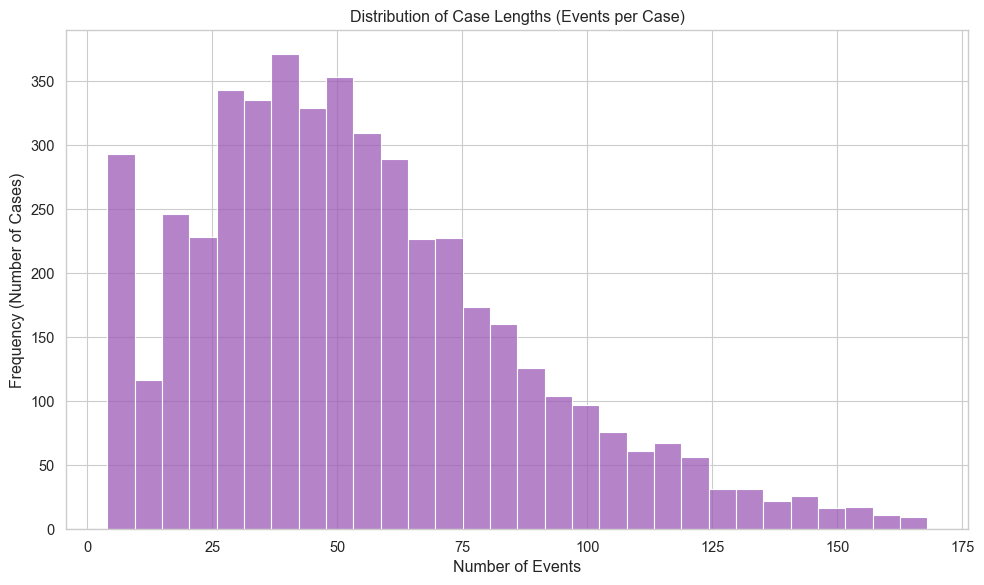
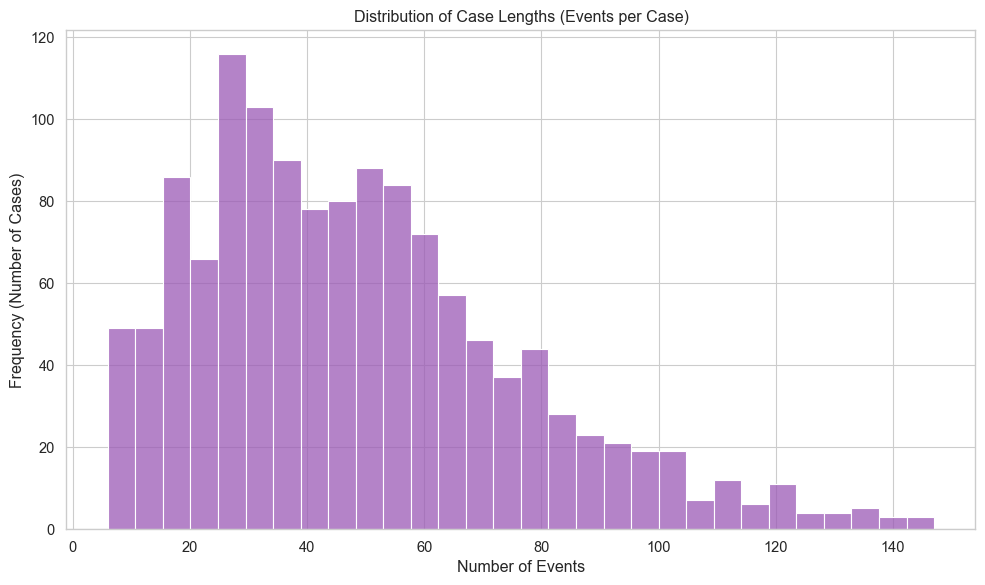
Fix data leakage in target calculation and target encoding
- Filter target variable calculation to only include officially closed ('Extinct'/'Canceled') cases to eliminate right-censoring bias.
- Remove 'claim_amount' from categorical features to prevent target encoding leakage on continuous variables.

diff --git a/src/feature_engineering/transformers.py b/src/feature_engineering/transformers.py
@@ -1,12 +1,11 @@
 import pandas as pd
-import numpy as np
 from src import config
 
 
 def add_temporal_features(df):
     """
     Adds time-based features: Weekday, Month, Elapsed Time.
-    Calculates the target variable: remaining_time_days.
+    Calculates the target variable: remaining_time_days (ONLY FOR CLOSED CASES).
     """
     df = df.copy()
     print("  - Adding Temporal Features...")
@@ -22,17 +21,24 @@ def add_temporal_features(df):
     df['Month'] = df[config.COL_DATE].dt.month
 
     # 2. Duration features
-    # Calculate start date for every case
     df['case_start'] = df.groupby(config.COL_CASE_ID)[config.COL_DATE].transform('min')
-
-    # Elapsed: How long has the case been running so far?
     df['elapsed_time_days'] = (df[config.COL_DATE] - df['case_start']).dt.total_seconds().div(86400)
-
-    # Time since last event: Gap between steps
     df['time_since_last_event'] = df.groupby(config.COL_CASE_ID)[config.COL_DATE].diff().dt.total_seconds().div(
         86400).fillna(0)
 
+    print("  - IMPORTANT: Filtering for officially closed cases ('Extinct' or 'Canceled')...")
+
+    # Search for the translations 'Extinct' or 'Canceled' in the status column
+    closed_mask = df[config.COL_STATUS].astype(str).str.contains('Extinct|Canceled', na=False, regex=True)
+    closed_case_ids = df[closed_mask][config.COL_CASE_ID].unique()
+
+    # Filter the dataframe to keep ONLY events belonging to closed cases
+    df = df[df[config.COL_CASE_ID].isin(closed_case_ids)].copy()
+
+    print(f"  - Kept {len(closed_case_ids)} closed cases for training.")
+
     # 3. Target Variable: Remaining Time
+    # Now it is safe to use 'max' because we know the last event is truly the closure of the case
     df['case_end'] = df.groupby(config.COL_CASE_ID)[config.COL_DATE].transform('max')
     df['remaining_time_days'] = (df['case_end'] - df[config.COL_DATE]).dt.total_seconds().div(86400)
 

diff --git a/src/modeling/prep.py b/src/modeling/prep.py
@@ -1,4 +1,3 @@
-import pandas as pd
 from src import config
 from sklearn.preprocessing import StandardScaler
 
@@ -31,17 +30,13 @@ def split_and_prepare_data(df):
     df = df.dropna(subset=[target]).copy()
 
     # 2. Define Feature Columns
-    # Numeric: Counts, Time, Workload
-    # REMOVED Month/Weekday from here
     num_cols = [c for c in df.columns if c.startswith('Count_') or c in [
         'elapsed_time_days', 'time_since_last_event', 'prefix_length',
-        'judge_changed', 'judge_workload'
+        'judge_changed', 'judge_workload', 'claim_amount'
     ]]
 
-    # Categorical: Last Event, Judge, AND Month/Weekday (for Target Encoding)
-    # ADDED Month/Weekday here
-    cat_cols = ['Last_event_ID', 'Second_last_event_ID', 'Month', 'Weekday'] + \
-               [c for c in config.CASE_ATTRIBUTES if c in df.columns]
+    safe_case_attributes = [c for c in config.CASE_ATTRIBUTES if c != 'claim_amount' and c in df.columns]
+    cat_cols = ['Last_event_ID', 'Second_last_event_ID', 'Month', 'Weekday'] + safe_case_attributes
 
     # 3. Temporal Split
     cases = df.groupby(config.COL_CASE_ID)['case_start'].min().sort_values().index.tolist()
@@ -59,6 +54,7 @@ def split_and_prepare_data(df):
     # 4. Encoders (Target Encode Cats + Scale Numerics)
     train_df, test_df = target_encode(train_df, test_df, cat_cols, target)
 
+    test_df['prefix_length_raw'] = test_df['prefix_length'] # prefix length for visualization
     scaler = StandardScaler()
     train_df[num_cols] = scaler.fit_transform(train_df[num_cols].fillna(0))
     test_df[num_cols] = scaler.transform(test_df[num_cols].fillna(0))

diff --git a/src/analysis/visualizer.py b/src/analysis/visualizer.py
@@ -193,17 +193,17 @@ def plot_shap_summary(model, X_test):
 def plot_error_by_prefix_length(X_test, y_test):
     _setup_style()
     print("- Plotting Error by Prefix Length...")
-    if 'predicted_remaining' not in X_test.columns or 'prefix_length' not in X_test.columns: return
+    if 'predicted_remaining' not in X_test.columns or 'prefix_length_raw' not in X_test.columns: return
 
     df_eval = X_test.copy()
     df_eval['actual'] = y_test
     df_eval['error'] = abs(df_eval['predicted_remaining'] - df_eval['actual'])
 
     # Smart truncation: Ignore the top 5% longest prefix lengths where error spikes due to lack of sample cases
-    max_len = int(df_eval['prefix_length'].quantile(0.95))
-    df_plot = df_eval[df_eval['prefix_length'] <= max_len]
+    max_len = int(df_eval['prefix_length_raw'].quantile(0.95))
+    df_plot = df_eval[df_eval['prefix_length_raw'] <= max_len]
 
-    mae_by_len = df_plot.groupby('prefix_length')['error'].mean()
+    mae_by_len = df_plot.groupby('prefix_length_raw')['error'].mean()
 
     plt.figure(figsize=(10, 6))
     sns.lineplot(x=mae_by_len.index, y=mae_by_len.values, marker='o', color='#c0392b', linewidth=2)

diff --git a/src/main.py b/src/main.py
@@ -48,6 +48,7 @@ def run_pipeline():
     df = run_preprocessing()
     stats.print_stats(stats.get_process_stats(df))
     df_feat = run_feature_engineering(df)
+    stats.print_stats(stats.get_process_stats(df_feat))
     visualizer.run_eda_plots(df_feat)
     run_modeling(df_feat)
     print("\n=== COMPLETE ===")
